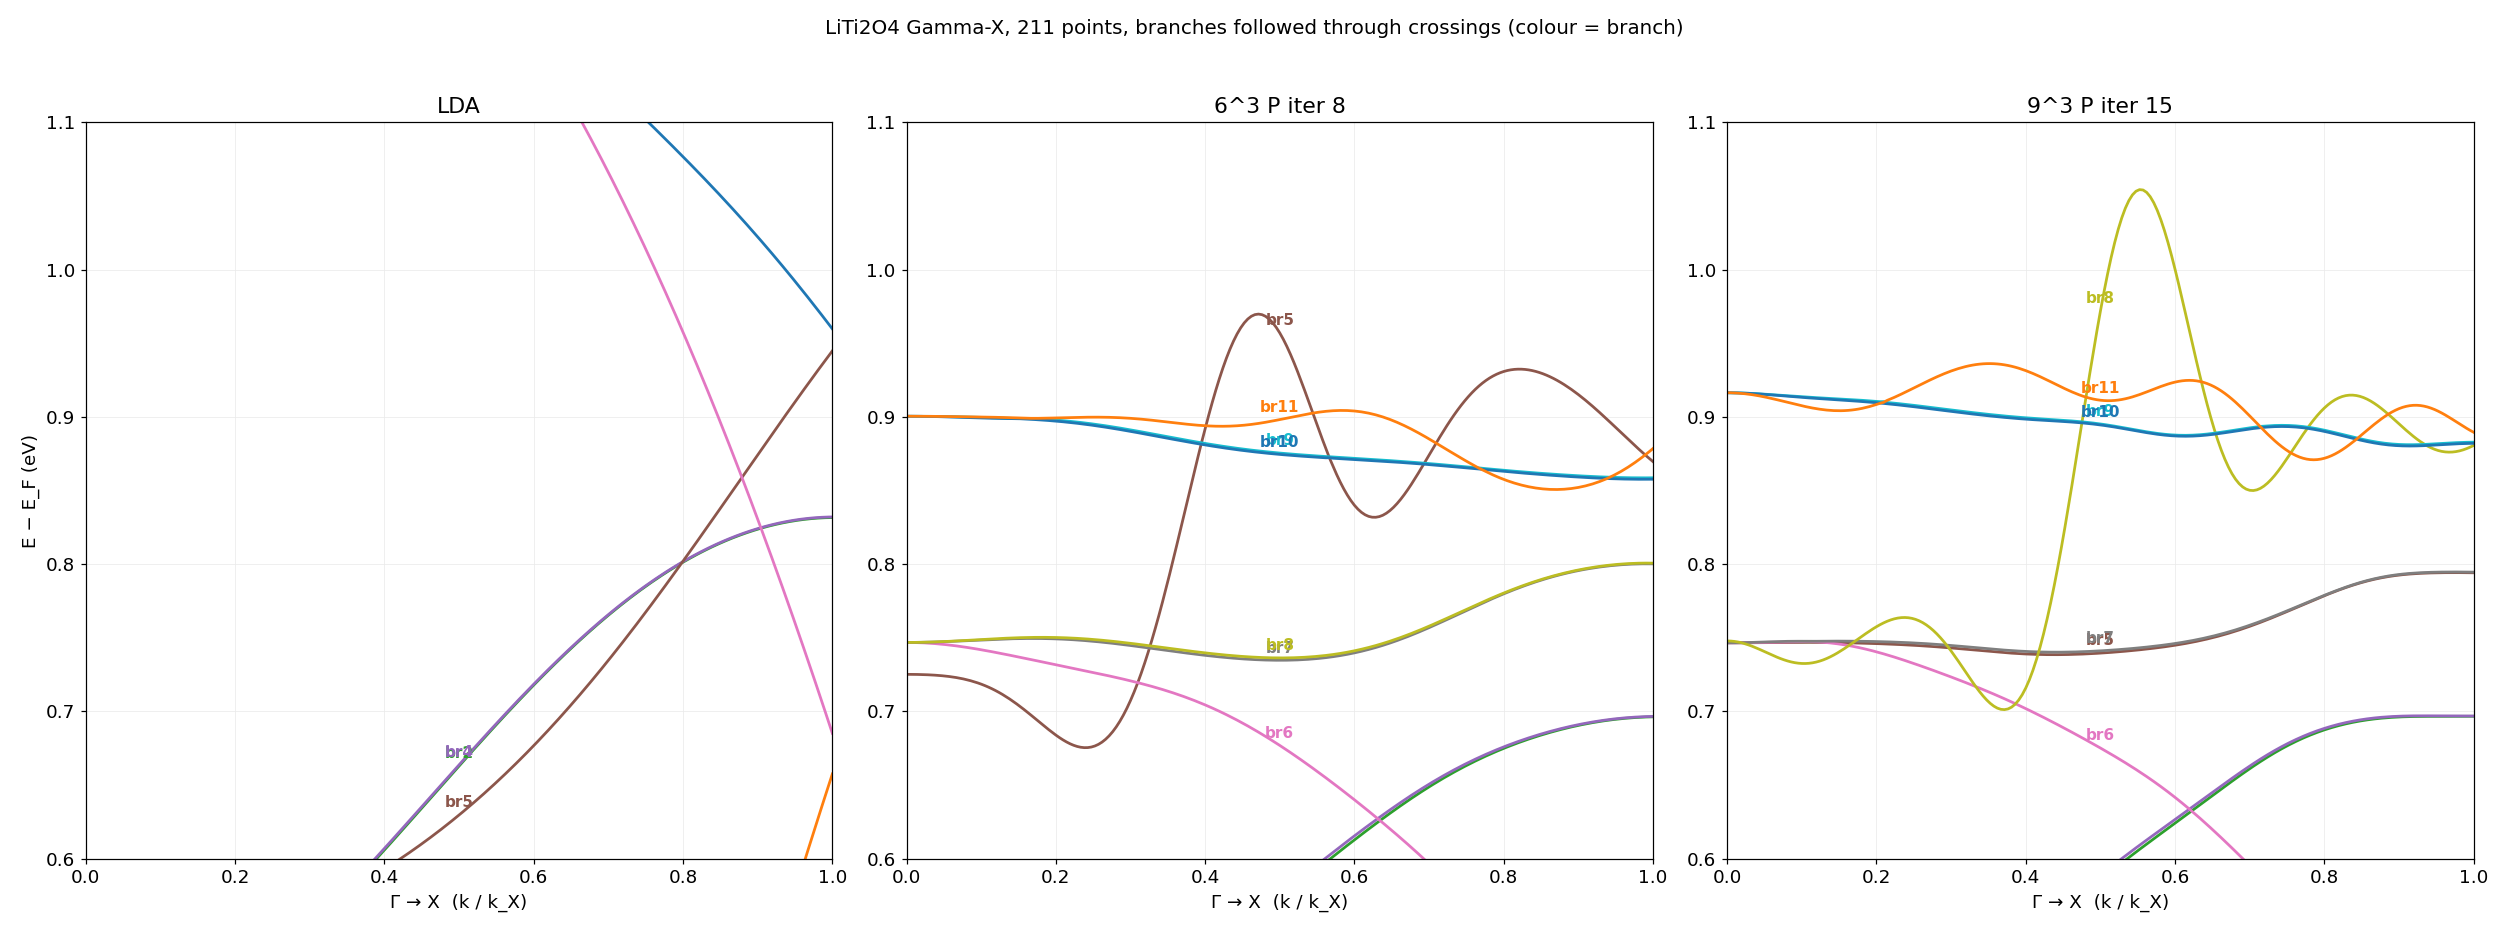
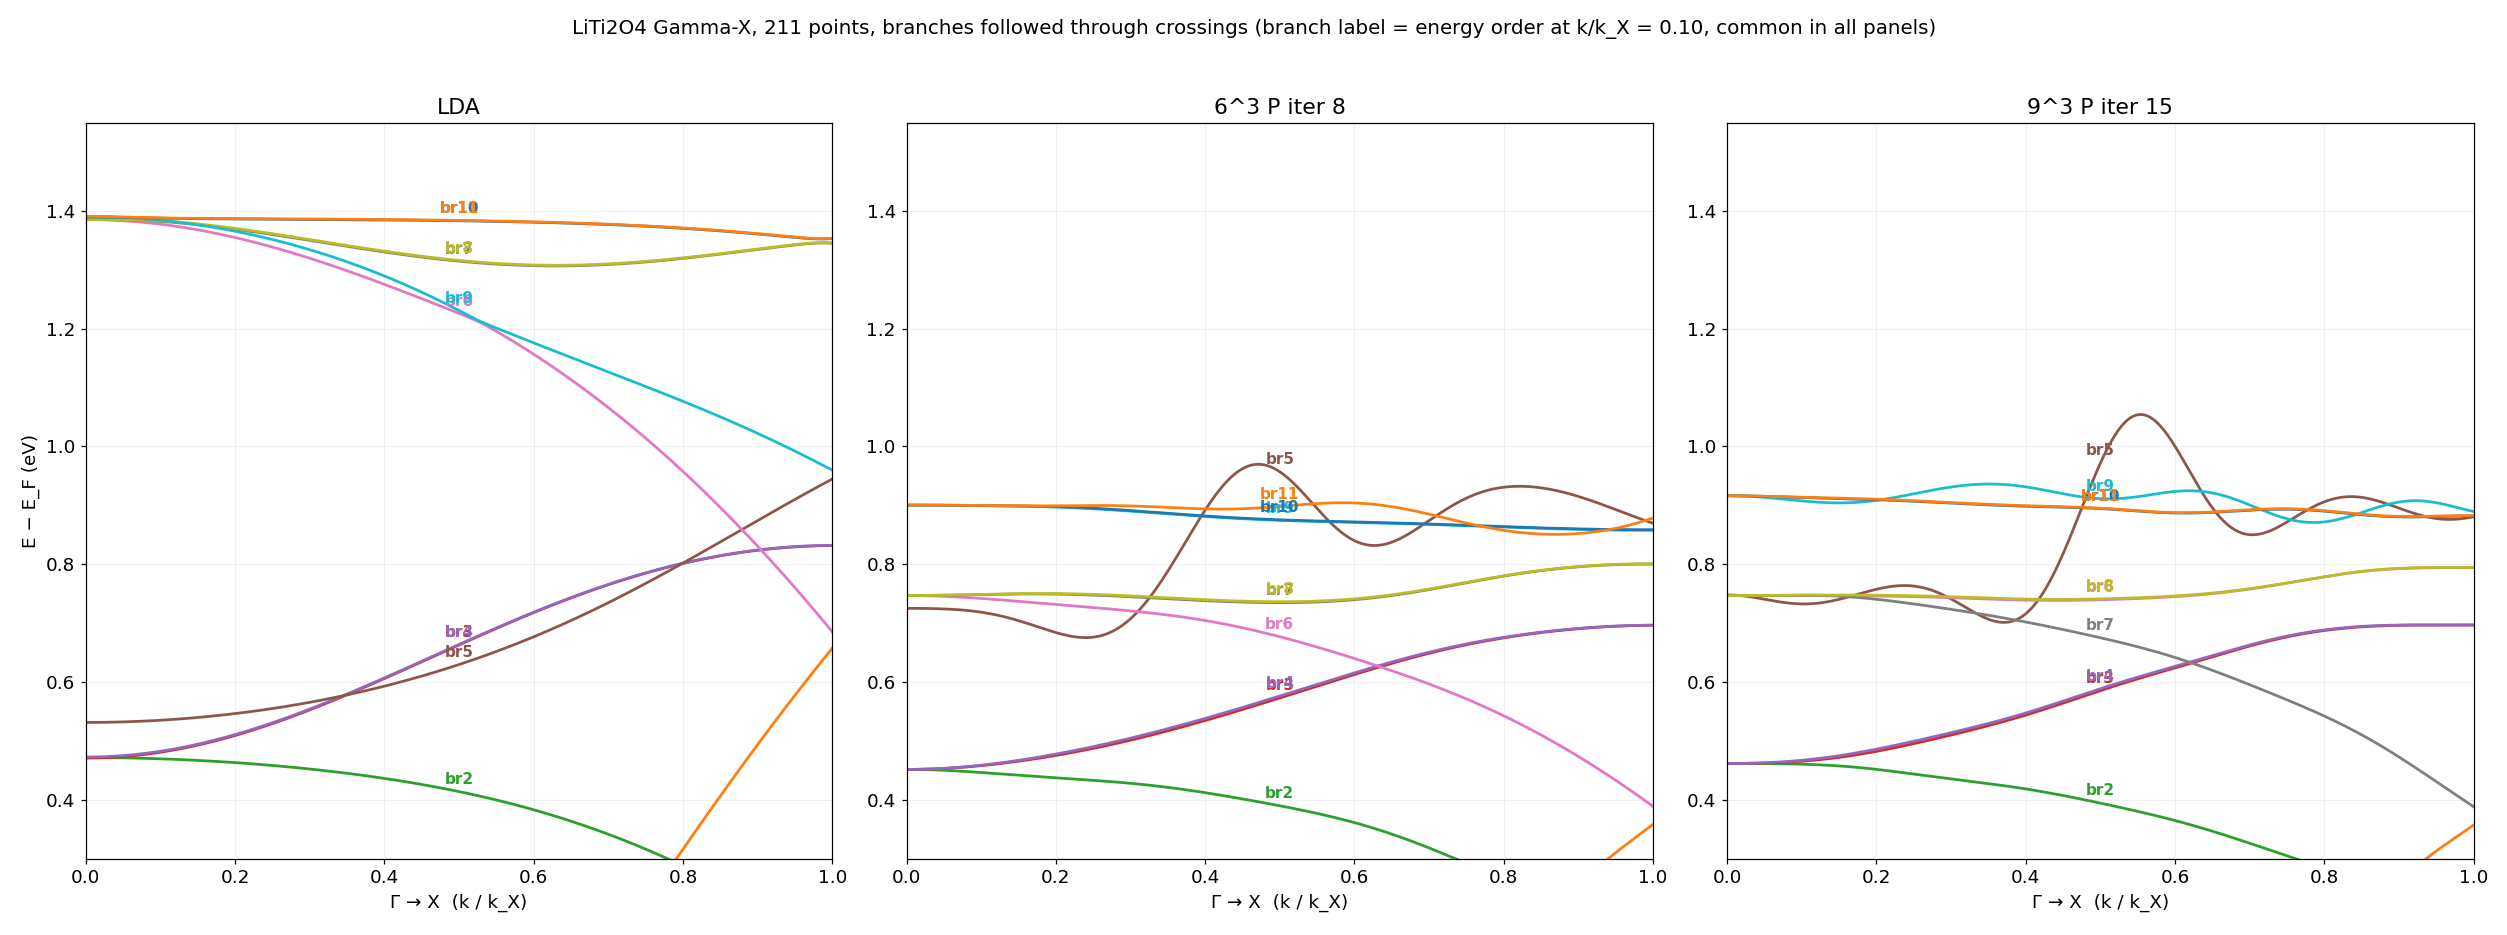
kBT_research.md: single corrected traced-branch figure (LDA range, consistent branch labels)

diff --git a/Samples/kBT/kBT_research.md b/Samples/kBT/kBT_research.md
@@ -33,18 +33,14 @@
 `trace_branches.py`: 211 点の細かい k 上で各枝を**線形外挿 + Hungarian で対応付け**て交差を越えて追跡（色 = 枝）。
 `Samples/kBT/LiTi2O4/plots/GX_traced_lda_666_999.png`。
 
+**枝の番号は「x = 0.10（Γ のすぐ外、Γ の多重縮退が解けた位置）でのエネルギー順」**に付けてあり、3 枚のパネルで
+同じ番号が同じ枝を指す（9³ の大振動枝も 6³ と同じ **br5**）。レンジは LDA の多重項 1.0〜1.45 eV が入る 0.30〜1.55 eV。
+
 ![Gamma-X traced branches](LiTi2O4/plots/GX_traced_lda_666_999.png)
 
-LDA の多重項（1.0〜1.45 eV）まで入る共通レンジ 0.30〜1.55 eV で描いたもの（user 13:35 / 13:45）。
-**枝の番号は「x = 0.10（Γ のすぐ外、Γ の多重縮退が解けた位置）でのエネルギー順」に付け直した**ので、
-3 枚のパネルで同じ番号が同じ枝を指す（9³ の大振動枝は br8 ではなく **br5**。以前の番号は追跡開始時の
-Γ での並び順で、Γ の縮退多重項の中では任意だったため 6³ と 9³ でずれていた。band-index 図も同じレンジに）。
-
-![Gamma-X traced branches, wide range](LiTi2O4/plots/GX_traced_wide_lda_666_999.png)
-
-LDA では Γ 0.53 → X 0.94 eV に上がる枝、1.39 → 0.96 に下がる枝、1.39 → 0.68 に急降下する枝（桃）がいずれも滑らか。
-QSGW ではこの多重項全体が 0.7〜1.0 eV に圧縮され、そのうち **1 本だけ**が Γ 0.73/0.75 eV から出て 0.97 / 1.05 eV まで
-跳ね上がる大振動を示す（6³ 茶 br5 / 9³ 黄緑 br8）。桃の急降下枝は QSGW でも滑らかなまま。
+LDA では Γ 0.53 → X 0.94 eV に上がる枝（br5）、1.39 → 0.96 に下がる枝、1.39 → 0.68 に急降下する枝がいずれも滑らか。
+QSGW ではこの多重項全体が 0.7〜1.0 eV に圧縮され、そのうち **br5 の 1 本だけ**が Γ 0.72/0.75 eV から出て
+0.97（6³）/ 1.05（9³）eV まで跳ね上がる大振動を示す。急降下枝は QSGW でも滑らかなまま。
 
 追跡後に、滑らかな分散（4 次多項式）を引いた残差で測ると:
 
